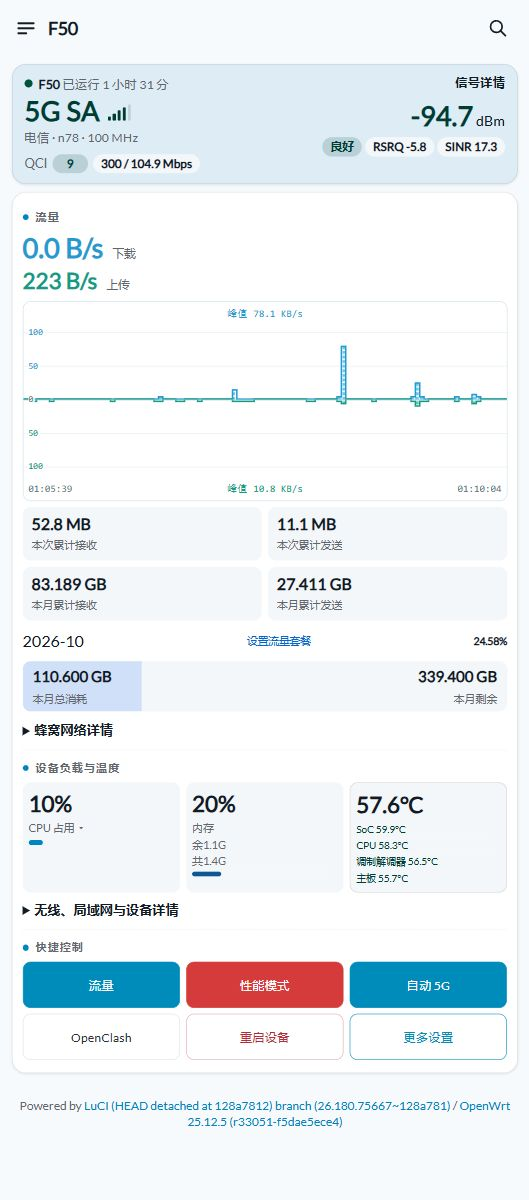
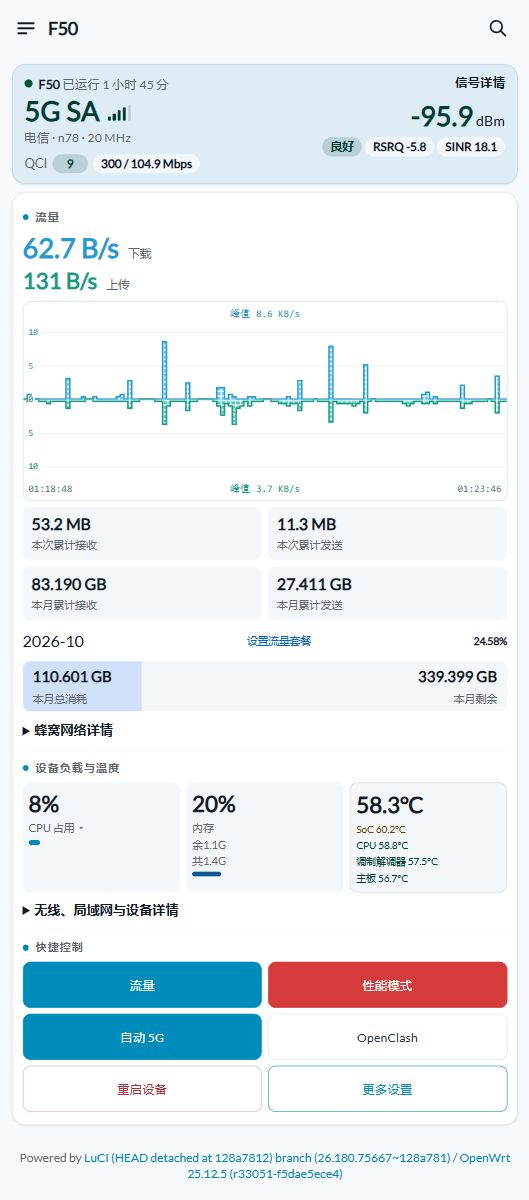
Update dashboard controls layout and automatic channel state

diff --git a/extras/dashboard/home.js b/extras/dashboard/home.js
@@ -6,7 +6,7 @@
 'require uci';
 'require mu300.common as M';
 'require f50quota5 as F50Quota';
-'require f50channel as F50Channel';
+'require f50channelstate as F50Channel';
 'require f50openclash2 as F50OpenClash';
 'require f50powerradio25 as F50Power';
 
@@ -125,6 +125,7 @@ return view.extend({
         if(this._adguardDispose)this._adguardDispose();
         if(this._highrailDispose)this._highrailDispose();
         if(this._actionsObserver)this._actionsObserver.disconnect();
+        if(this._frameObserver)this._frameObserver.disconnect();
 		if (this._channelDispose) this._channelDispose();
 		if (this._quotaDispose) this._quotaDispose();
 		if (this._openclashDispose) this._openclashDispose();
@@ -362,7 +363,16 @@ return view.extend({
   var other=E('div',{id:'f50-other-controls',class:'mud-ctl f50-other-controls',hidden:true});quick.appendChild(other);
   ['wifi','adguard','channel','modem','highspeed','android'].forEach(function(id){other.appendChild(root.querySelector('#mud-btn-'+id));});android.remove();
   var otherBtn=root.querySelector('#mud-btn-other');otherBtn.setAttribute('aria-controls','f50-other-controls');
-  otherBtn.onclick=function(){other.hidden=!other.hidden;otherBtn.setAttribute('aria-expanded',String(!other.hidden));};
+  otherBtn.onclick=function(){other.hidden=!other.hidden;otherBtn.setAttribute('aria-expanded',String(!other.hidden));root.classList.toggle('f50-more-open',!other.hidden);drawMoreFrame();};
+  quick.classList.add('f50-controls-section');
+  var frame=E('div',{class:'f50-more-frame','aria-hidden':'true',hidden:true});
+  frame.innerHTML='<svg><path fill="rgba(0,140,186,.035)" stroke="#008cba" stroke-width="1.2" vector-effect="non-scaling-stroke"/></svg>';quick.appendChild(frame);
+  function drawMoreFrame(){frame.hidden=other.hidden;if(other.hidden)return;var base=quick.getBoundingClientRect(),b=otherBtn.getBoundingClientRect(),a=other.getBoundingClientRect(),r=7;
+   var l=a.left-base.left-5,right=a.right-base.left+5,top=b.top-base.top-5,bottom=a.bottom-base.top+5,step=a.top-base.top-6,x=b.left-base.left-5;
+   var d='M '+(x+r)+' '+top+' H '+(right-r)+' Q '+right+' '+top+' '+right+' '+(top+r)+' V '+(bottom-r)+' Q '+right+' '+bottom+' '+(right-r)+' '+bottom+' H '+(l+r)+' Q '+l+' '+bottom+' '+l+' '+(bottom-r)+' V '+(step+r)+' Q '+l+' '+step+' '+(l+r)+' '+step+' H '+(x-r)+' Q '+x+' '+step+' '+x+' '+(step-r)+' V '+(top+r)+' Q '+x+' '+top+' '+(x+r)+' '+top+' Z';
+   frame.querySelector('path').setAttribute('d',d);
+  }
+  this._frameObserver=new ResizeObserver(drawMoreFrame);this._frameObserver.observe(quick);this._frameObserver.observe(other);
   var lockTable=locks.querySelector('.mud-scroll');locks.querySelector('h3').remove();
   other.appendChild(E('a',{class:'mud-btn',id:'mud-btn-rat-settings',href:L.url('admin','modem','locks')},'设置制式与频段'));
   var lockContent=E('div',{id:'f50-lock-details',hidden:true},[lockTable]);
@@ -409,7 +419,7 @@ return view.extend({
    .f50-home #mud-neigh .mud-lockbtn{display:inline-block;min-width:3em;padding:1px 8px;border-radius:99px;font-size:.74rem;font-weight:600;text-align:center;white-space:nowrap;line-height:1.5;height:auto;min-height:0;border:0;background:color-mix(in oklab,#238b45 16%,transparent);color:#238b45}
    .f50-home #mud-neigh .mud-lockbtn.locked{background:#238b45;color:#fff}
    .f50-home #mud-btn-other,.f50-home #mud-btn-other[aria-expanded=true],.f50-home #f50-other-controls>.mud-btn,.f50-home #f50-other-controls .mud-lockbtn{background:#ed861b!important;border-color:#ed861b!important;color:#fff!important}
-   .f50-home #f50-other-controls>.mud-btn.on,.f50-home #f50-other-controls>.mud-btn[aria-pressed=true],.f50-home #f50-other-controls .mud-lockbtn.locked{box-shadow:inset 0 0 0 2px rgba(255,255,255,.65)}
+   .f50-home #f50-other-controls>.mud-btn.on,.f50-home #f50-other-controls>.mud-btn[aria-pressed=true],.f50-home #f50-other-controls .mud-lockbtn.locked{box-shadow:none}
    .f50-home #mud-btn-other,.f50-home #f50-other-controls>.mud-btn,.f50-home #f50-other-controls .mud-lockbtn{font-size:.78rem!important}
    .f50-home .f50-primary-controls>.mud-btn{font-size:.78rem!important;font-weight:500!important}
    .f50-home #mud-btn-other,.f50-home #mud-btn-other[aria-expanded=false],.f50-home #mud-btn-other[aria-expanded=true],.f50-home #f50-other-controls>.mud-btn,.f50-home #f50-other-controls .mud-lockbtn{background:#238b45!important;border-color:#238b45!important;color:#fff!important;font-weight:500!important}
@@ -459,6 +469,13 @@ return view.extend({
    .f50-home #mud-btn-5g[data-switching=true][data-target-mode=auto]{background:#d2eaf2!important;border-color:#9fc9d9!important;color:#397c94!important}
    .f50-home #mud-btn-other,.f50-home #mud-btn-other[aria-expanded=false],.f50-home #f50-other-controls>.mud-btn,.f50-home #f50-other-controls .mud-lockbtn{background:#fff!important;border-color:#008cba!important;color:#008cba!important}
    .f50-home #mud-btn-other[aria-expanded=true],.f50-home #f50-other-controls>.mud-btn.on,.f50-home #f50-other-controls>.mud-btn[aria-pressed=true],.f50-home #f50-other-controls>.mud-btn[aria-expanded=true],.f50-home #f50-other-controls .mud-lockbtn.locked{background:#008cba!important;border-color:#008cba!important;color:#fff!important}
+   .f50-home #mud-btn-other{font-weight:650!important;position:relative;box-shadow:none!important}
+   .f50-home #mud-btn-other:after,.f50-home #f50-other-controls:before,.f50-home #f50-other-controls:after{display:none!important;content:none!important}
+   .f50-home #f50-other-controls{padding:0;border:0;border-radius:0;margin-top:14px;background:transparent;overflow:visible}
+   .f50-home .f50-controls-section{position:relative;isolation:isolate}
+   .f50-home .f50-more-frame{position:absolute;inset:0;pointer-events:none;z-index:-1;overflow:visible}
+   .f50-home .f50-more-frame svg{position:absolute;inset:0;width:100%;height:100%;overflow:visible}
+   @media(max-width:600px){.f50-home .mud-ctl.f50-primary-controls{grid-template-columns:repeat(2,minmax(0,1fr))!important}.f50-home #f50-other-controls{grid-template-columns:repeat(3,minmax(0,1fr))!important}}
    .f50-home #mud-btn-other:hover,.f50-home #f50-other-controls .mud-btn:hover{filter:brightness(.95)}
    .f50-home #mud-btn-power{white-space:normal;overflow-wrap:anywhere;line-height:1.25}
    .f50-home #mud-btn-power[data-mode=performance]{background:#d63b3b;border-color:#d63b3b;color:#fff}

diff --git a/extras/dashboard/f50channel.js b/extras/dashboard/f50channel.js
@@ -6,7 +6,7 @@ var get=rpc.declare({object:'f50channel',method:'status'});
 var set=rpc.declare({object:'f50channel',method:'set',params:['channel']});
 return baseclass.extend({mount:function(root){
  var btn=root.querySelector('#mud-btn-channel'),timer,disposed=false;
- function refresh(){return get().then(function(s){btn.textContent='信道 · '+(s.channel==='auto'?'自动':'手动 '+s.channel);}).catch(function(){btn.textContent='信道设置';});}
+ function refresh(){return get().then(function(s){if(disposed)return;var auto=s.channel==='auto';btn.textContent='信道 · '+(auto?'自动':'手动 '+s.channel);btn.classList.toggle('on',auto);btn.setAttribute('aria-pressed',String(auto));}).catch(function(){btn.textContent='信道设置';btn.classList.remove('on');btn.setAttribute('aria-pressed','false');});}
  btn.onclick=function(){btn.disabled=true;get().then(function(s){
   if(!s.ok)throw new Error(s.error);
   var mode=E('select',{id:'f50-channel-mode',style:'width:100%'},[E('option',{value:'auto'},'自动'),E('option',{value:'manual'},'手动')]);
